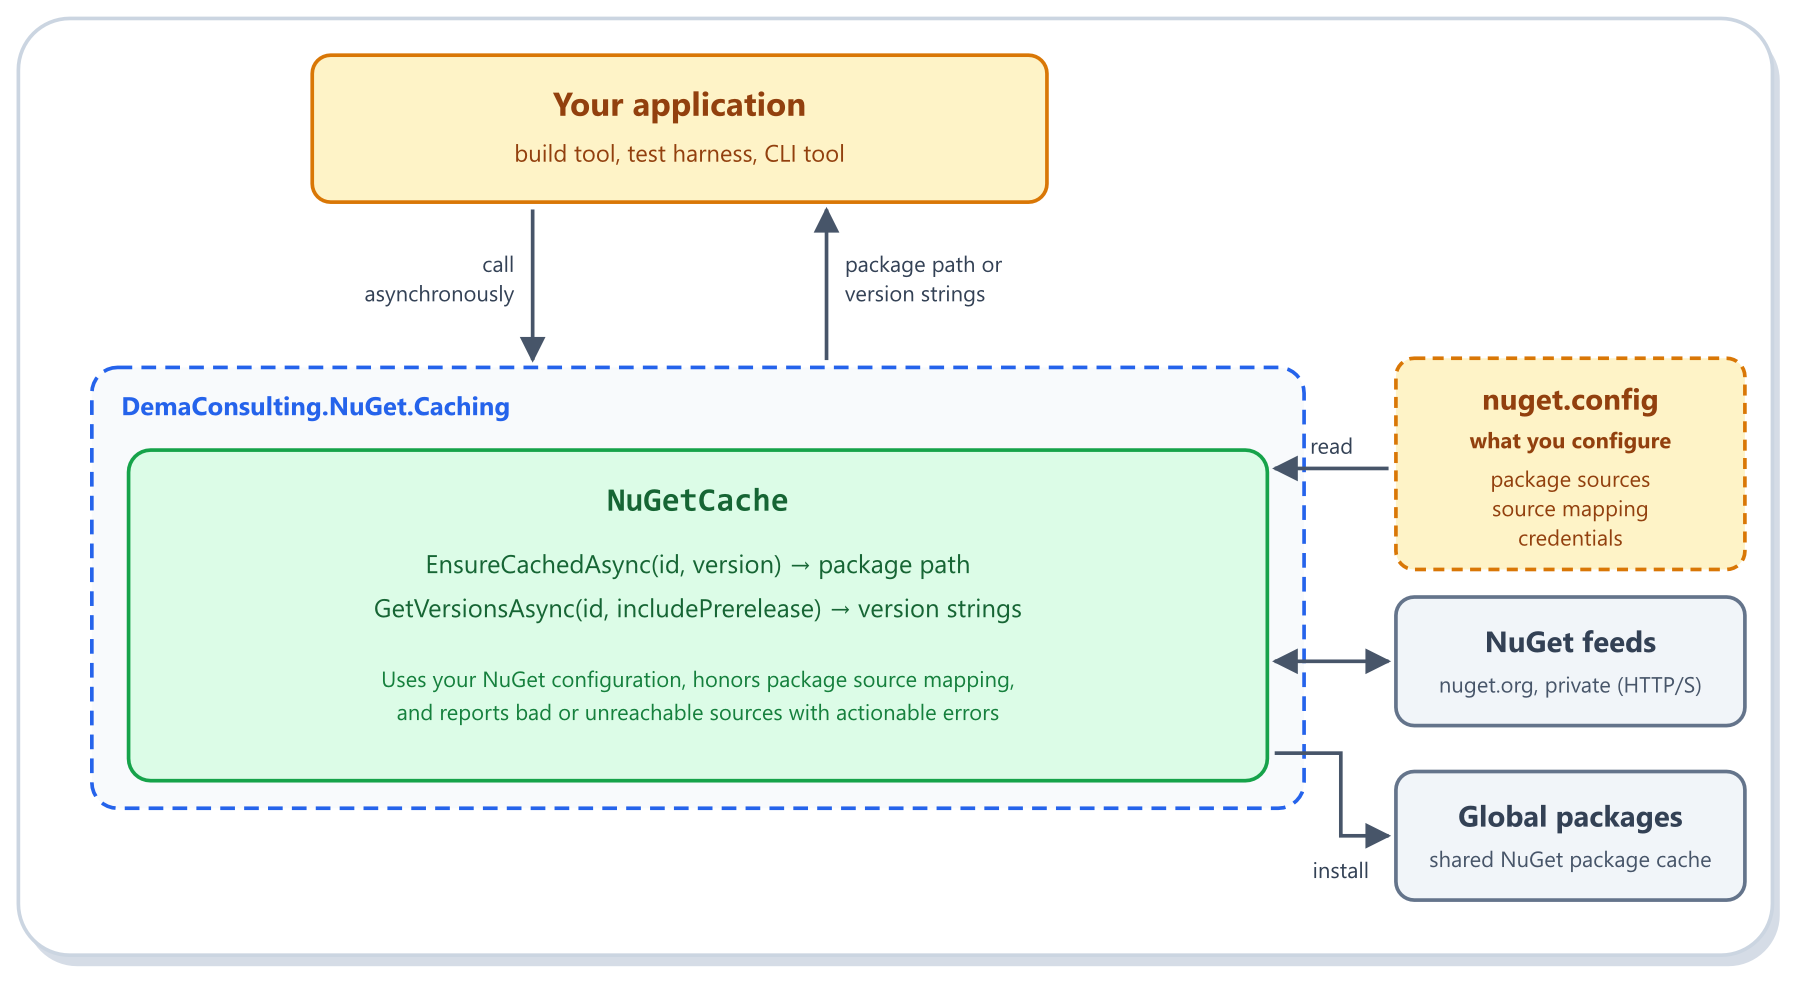
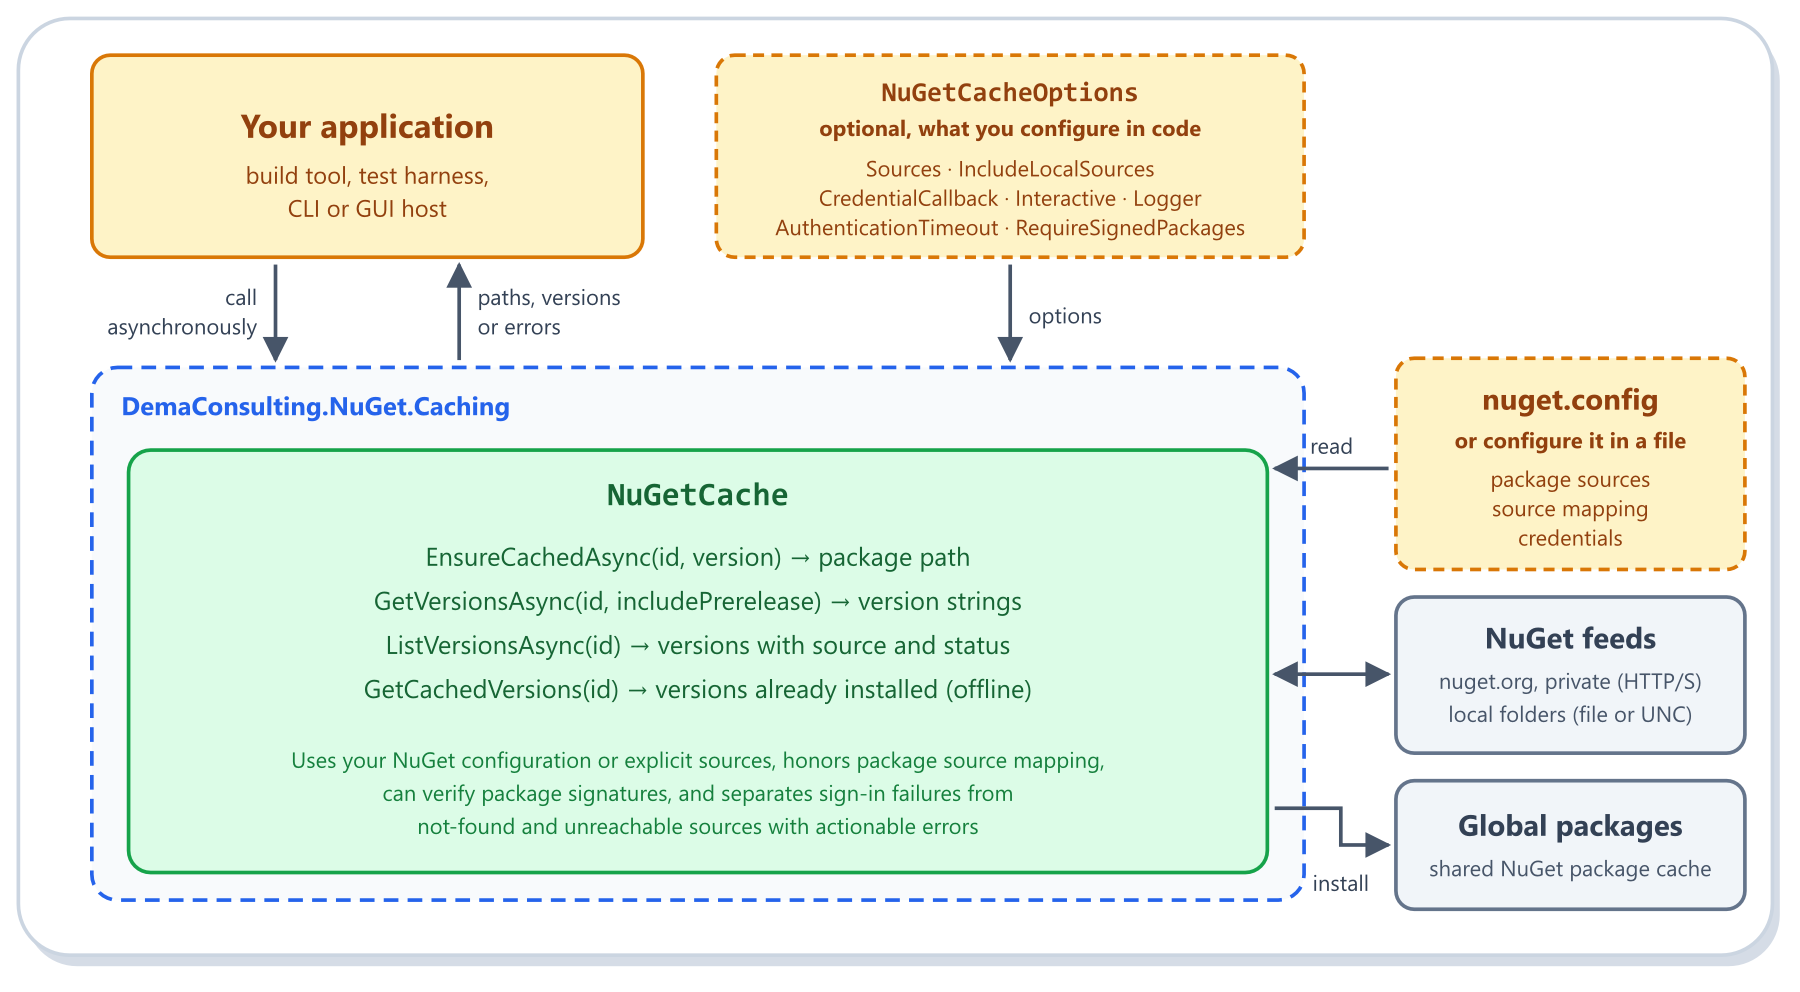
docs: update architecture diagram for the 2.0 API and use a transparent background (#89)

diff --git a/docs/user_guide/introduction.md b/docs/user_guide/introduction.md
@@ -6,8 +6,8 @@ This document is the user guide for DemaConsulting NuGet Caching, a library for 
 NuGet packages are available in the local global packages cache and for discovering the
 versions of a package that are available from the configured NuGet sources.
 
-![NuGetCaching architecture: your application calling NuGetCache, with nuget.config, NuGet feeds and the global
-packages folder](architecture.svg)
+![NuGetCaching architecture: your application calling NuGetCache with optional NuGetCacheOptions, plus nuget.config,
+NuGet feeds and the global packages folder](architecture.svg)
 
 ## Scope
 

diff --git a/README.md b/README.md
@@ -12,7 +12,7 @@
 DEMA Consulting library for caching NuGet packages on the local global packages cache and
 discovering the available versions of a package.
 
-![NuGetCaching architecture: your application calling NuGetCache, with nuget.config, NuGet feeds and the global packages folder][architecture]
+![NuGetCaching architecture: your application calling NuGetCache with optional NuGetCacheOptions, plus nuget.config, NuGet feeds and the global packages folder][architecture]
 
 ## Features
 
